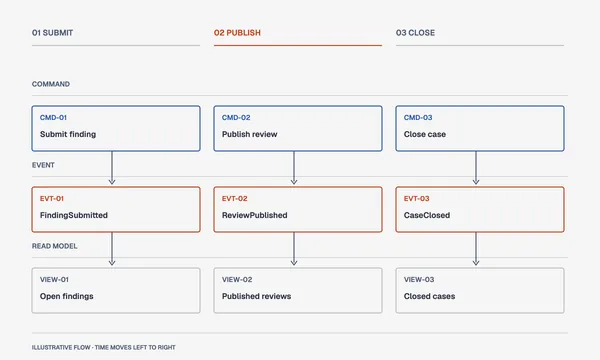
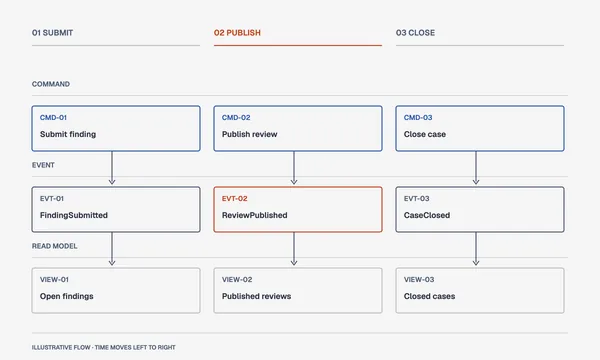
fix(events): validate roles and focus the example

diff --git a/skills/diagram-design/assets/example-event-modeling-dark.html b/skills/diagram-design/assets/example-event-modeling-dark.html
@@ -12,8 +12,8 @@
 <text x="80" y="240" fill="#739fdf" font-size="14" font-weight="700" font-family="Geist, sans-serif">CMD-01</text>
 <text x="80" y="274" fill="#f5f5f5" font-size="16" font-weight="600" font-family="Geist, sans-serif">Submit finding</text>
 </g>
-<g data-diagram-role="event" data-event-kind="event" data-event-id="EVT-01"><rect x="64" y="374" width="336" height="90" rx="4" fill="#2d3142" stroke="#f08a59" stroke-width="2"/>
-<text x="80" y="402" fill="#f08a59" font-size="14" font-weight="700" font-family="Geist, sans-serif">EVT-01</text>
+<g data-diagram-role="event" data-event-kind="event" data-event-id="EVT-01"><rect x="64" y="374" width="336" height="90" rx="4" fill="#2d3142" stroke="#bfc0c0" stroke-width="2"/>
+<text x="80" y="402" fill="#bfc0c0" font-size="14" font-weight="700" font-family="Geist, sans-serif">EVT-01</text>
 <text x="80" y="436" fill="#f5f5f5" font-size="16" font-weight="600" font-family="Geist, sans-serif">FindingSubmitted</text>
 </g>
 <g data-diagram-role="read-model" data-event-kind="read-model" data-event-id="VIEW-01"><rect x="64" y="536" width="336" height="90" rx="4" fill="#2d3142" stroke="rgba(245,245,245,0.12)" stroke-width="2"/>
@@ -48,8 +48,8 @@
 <text x="808" y="240" fill="#739fdf" font-size="14" font-weight="700" font-family="Geist, sans-serif">CMD-03</text>
 <text x="808" y="274" fill="#f5f5f5" font-size="16" font-weight="600" font-family="Geist, sans-serif">Close case</text>
 </g>
-<g data-diagram-role="event" data-event-kind="event" data-event-id="EVT-03"><rect x="792" y="374" width="336" height="90" rx="4" fill="#2d3142" stroke="#f08a59" stroke-width="2"/>
-<text x="808" y="402" fill="#f08a59" font-size="14" font-weight="700" font-family="Geist, sans-serif">EVT-03</text>
+<g data-diagram-role="event" data-event-kind="event" data-event-id="EVT-03"><rect x="792" y="374" width="336" height="90" rx="4" fill="#2d3142" stroke="#bfc0c0" stroke-width="2"/>
+<text x="808" y="402" fill="#bfc0c0" font-size="14" font-weight="700" font-family="Geist, sans-serif">EVT-03</text>
 <text x="808" y="436" fill="#f5f5f5" font-size="16" font-weight="600" font-family="Geist, sans-serif">CaseClosed</text>
 </g>
 <g data-diagram-role="read-model" data-event-kind="read-model" data-event-id="VIEW-03"><rect x="792" y="536" width="336" height="90" rx="4" fill="#2d3142" stroke="rgba(245,245,245,0.12)" stroke-width="2"/>

diff --git a/skills/diagram-design/assets/example-event-modeling-full.html b/skills/diagram-design/assets/example-event-modeling-full.html
@@ -12,8 +12,8 @@
 <text x="80" y="240" fill="#2e5aa8" font-size="14" font-weight="700" font-family="Geist, sans-serif">CMD-01</text>
 <text x="80" y="274" fill="#2d3142" font-size="16" font-weight="600" font-family="Geist, sans-serif">Submit finding</text>
 </g>
-<g data-diagram-role="event" data-event-kind="event" data-event-id="EVT-01"><rect x="64" y="374" width="336" height="90" rx="4" fill="#f5f5f5" stroke="#bf4520" stroke-width="2"/>
-<text x="80" y="402" fill="#bf4520" font-size="14" font-weight="700" font-family="Geist, sans-serif">EVT-01</text>
+<g data-diagram-role="event" data-event-kind="event" data-event-id="EVT-01"><rect x="64" y="374" width="336" height="90" rx="4" fill="#f5f5f5" stroke="#4f5d75" stroke-width="2"/>
+<text x="80" y="402" fill="#4f5d75" font-size="14" font-weight="700" font-family="Geist, sans-serif">EVT-01</text>
 <text x="80" y="436" fill="#2d3142" font-size="16" font-weight="600" font-family="Geist, sans-serif">FindingSubmitted</text>
 </g>
 <g data-diagram-role="read-model" data-event-kind="read-model" data-event-id="VIEW-01"><rect x="64" y="536" width="336" height="90" rx="4" fill="#f5f5f5" stroke="#bfc0c0" stroke-width="2"/>
@@ -48,8 +48,8 @@
 <text x="808" y="240" fill="#2e5aa8" font-size="14" font-weight="700" font-family="Geist, sans-serif">CMD-03</text>
 <text x="808" y="274" fill="#2d3142" font-size="16" font-weight="600" font-family="Geist, sans-serif">Close case</text>
 </g>
-<g data-diagram-role="event" data-event-kind="event" data-event-id="EVT-03"><rect x="792" y="374" width="336" height="90" rx="4" fill="#f5f5f5" stroke="#bf4520" stroke-width="2"/>
-<text x="808" y="402" fill="#bf4520" font-size="14" font-weight="700" font-family="Geist, sans-serif">EVT-03</text>
+<g data-diagram-role="event" data-event-kind="event" data-event-id="EVT-03"><rect x="792" y="374" width="336" height="90" rx="4" fill="#f5f5f5" stroke="#4f5d75" stroke-width="2"/>
+<text x="808" y="402" fill="#4f5d75" font-size="14" font-weight="700" font-family="Geist, sans-serif">EVT-03</text>
 <text x="808" y="436" fill="#2d3142" font-size="16" font-weight="600" font-family="Geist, sans-serif">CaseClosed</text>
 </g>
 <g data-diagram-role="read-model" data-event-kind="read-model" data-event-id="VIEW-03"><rect x="792" y="536" width="336" height="90" rx="4" fill="#f5f5f5" stroke="#bfc0c0" stroke-width="2"/>

diff --git a/skills/diagram-design/assets/example-event-modeling.html b/skills/diagram-design/assets/example-event-modeling.html
@@ -12,8 +12,8 @@
 <text x="80" y="240" fill="#2e5aa8" font-size="14" font-weight="700" font-family="Geist, sans-serif">CMD-01</text>
 <text x="80" y="274" fill="#2d3142" font-size="16" font-weight="600" font-family="Geist, sans-serif">Submit finding</text>
 </g>
-<g data-diagram-role="event" data-event-kind="event" data-event-id="EVT-01"><rect x="64" y="374" width="336" height="90" rx="4" fill="#f5f5f5" stroke="#bf4520" stroke-width="2"/>
-<text x="80" y="402" fill="#bf4520" font-size="14" font-weight="700" font-family="Geist, sans-serif">EVT-01</text>
+<g data-diagram-role="event" data-event-kind="event" data-event-id="EVT-01"><rect x="64" y="374" width="336" height="90" rx="4" fill="#f5f5f5" stroke="#4f5d75" stroke-width="2"/>
+<text x="80" y="402" fill="#4f5d75" font-size="14" font-weight="700" font-family="Geist, sans-serif">EVT-01</text>
 <text x="80" y="436" fill="#2d3142" font-size="16" font-weight="600" font-family="Geist, sans-serif">FindingSubmitted</text>
 </g>
 <g data-diagram-role="read-model" data-event-kind="read-model" data-event-id="VIEW-01"><rect x="64" y="536" width="336" height="90" rx="4" fill="#f5f5f5" stroke="#bfc0c0" stroke-width="2"/>
@@ -48,8 +48,8 @@
 <text x="808" y="240" fill="#2e5aa8" font-size="14" font-weight="700" font-family="Geist, sans-serif">CMD-03</text>
 <text x="808" y="274" fill="#2d3142" font-size="16" font-weight="600" font-family="Geist, sans-serif">Close case</text>
 </g>
-<g data-diagram-role="event" data-event-kind="event" data-event-id="EVT-03"><rect x="792" y="374" width="336" height="90" rx="4" fill="#f5f5f5" stroke="#bf4520" stroke-width="2"/>
-<text x="808" y="402" fill="#bf4520" font-size="14" font-weight="700" font-family="Geist, sans-serif">EVT-03</text>
+<g data-diagram-role="event" data-event-kind="event" data-event-id="EVT-03"><rect x="792" y="374" width="336" height="90" rx="4" fill="#f5f5f5" stroke="#4f5d75" stroke-width="2"/>
+<text x="808" y="402" fill="#4f5d75" font-size="14" font-weight="700" font-family="Geist, sans-serif">EVT-03</text>
 <text x="808" y="436" fill="#2d3142" font-size="16" font-weight="600" font-family="Geist, sans-serif">CaseClosed</text>
 </g>
 <g data-diagram-role="read-model" data-event-kind="read-model" data-event-id="VIEW-03"><rect x="792" y="536" width="336" height="90" rx="4" fill="#f5f5f5" stroke="#bfc0c0" stroke-width="2"/>

diff --git a/scripts/verify-event-modeling.py b/scripts/verify-event-modeling.py
@@ -17,7 +17,44 @@ LINKS = {"emits": ("command", "event"), "projects": ("event", "read-model")}
 
 
 def visible(element: ET.Element) -> str:
-    return " ".join(" ".join(element.itertext()).split())
+    """Read SVG text while excluding metadata and hidden descendants."""
+    chunks: list[str] = []
+
+    def walk(node: ET.Element, in_text: bool = False) -> None:
+        tag = node.tag.rsplit("}", 1)[-1]
+        style = {
+            key.strip().casefold(): value.strip().casefold()
+            for key, separator, value in (
+                part.partition(":") for part in node.attrib.get("style", "").split(";")
+            )
+            if key and separator
+        }
+        if (
+            tag in {"defs", "title", "desc"}
+            or node.attrib.get("aria-hidden") == "true"
+            or "hidden" in node.attrib
+            or node.attrib.get("display") == "none"
+            or node.attrib.get("visibility") == "hidden"
+            or node.attrib.get("opacity") in {"0", "0.0"}
+            or node.attrib.get("fill") in {"none", "transparent"}
+            or node.attrib.get("fill-opacity") in {"0", "0.0"}
+            or style.get("display") == "none"
+            or style.get("visibility") == "hidden"
+            or style.get("opacity") in {"0", "0.0"}
+            or style.get("fill") in {"none", "transparent"}
+            or style.get("fill-opacity") in {"0", "0.0"}
+        ):
+            return
+        in_text = in_text or tag == "text"
+        if in_text and node.text:
+            chunks.append(node.text)
+        for child in node:
+            walk(child, in_text)
+            if in_text and child.tail:
+                chunks.append(child.tail)
+
+    walk(element)
+    return " ".join(" ".join(chunks).split())
 
 
 def check(path: Path) -> list[str]:
@@ -45,6 +82,8 @@ def check(path: Path) -> list[str]:
         stage_ids.add(stage_id)
         if stage.attrib.get("data-stage-order") != str(index):
             errors.append(f"{stage_id}: stage order must be {index}")
+        if stage.attrib.get("data-diagram-role") != "timeframe":
+            errors.append(f"{stage_id}: stage role must be timeframe")
         elements = {kind: [] for kind in KINDS}
         links = {rel: [] for rel in LINKS}
         for element in stage.iter():
@@ -54,6 +93,8 @@ def check(path: Path) -> list[str]:
                     errors.append(f"{stage_id}: unknown kind {kind!r}")
                     continue
                 elements[kind].append(element)
+                if element.attrib.get("data-diagram-role") != kind:
+                    errors.append(f"{stage_id}: {kind} node role must be {kind}")
                 element_id = element.attrib.get("data-event-id", "").strip()
                 if not element_id.startswith(KINDS[kind]) or element_id in global_ids:
                     errors.append(f"{stage_id}: invalid or duplicate {kind} ID {element_id!r}")
@@ -74,6 +115,8 @@ def check(path: Path) -> list[str]:
             if len(found) != 1:
                 errors.append(f"{stage_id}: expected one {rel} link")
                 continue
+            if found[0].attrib.get("data-diagram-role") != "event-link":
+                errors.append(f"{stage_id}: {rel} link role must be event-link")
             if len(elements[from_kind]) != 1 or len(elements[to_kind]) != 1:
                 continue
             from_id = elements[from_kind][0].attrib.get("data-event-id", "")

diff --git a/scripts/test-verify-event-modeling.py b/scripts/test-verify-event-modeling.py
@@ -22,10 +22,17 @@ def main() -> None:
     cases = (
         ('data-stage-order="2"', 'data-stage-order="1"', "stage order"),
         ('data-event-stage="STAGE-02"', 'data-event-stage="STAGE-01"', "duplicate stage ID"),
+        ('data-diagram-role="timeframe"', 'data-diagram-role="unknown"', "stage role must be timeframe"),
+        ('data-diagram-role="command"', 'data-diagram-role="unknown"', "command node role must be command"),
+        ('data-diagram-role="event-link"', 'data-diagram-role="unknown"', "link role must be event-link"),
         ('data-from="CMD-01"', 'data-from="CMD-99"', "emits endpoints"),
         ('data-to="VIEW-01"', 'data-to="VIEW-99"', "projects endpoints"),
         ('data-event-rel="emits"', 'data-event-rel="unknown"', "unknown link"),
         ('>EVT-01</text>', '>EVT-99</text>', "is not printed"),
+        ('>EVT-01</text>', '>Unprinted</text><desc>EVT-01</desc>', "is not printed"),
+        ('>EVT-01</text>', '>Unprinted</text><defs><text>EVT-01</text></defs>', "is not printed"),
+        ('data-diagram-role="event"', 'display="none" data-diagram-role="event"', "is not printed"),
+        ('>READ MODEL</text>', '>Unlabeled</text><desc>READ MODEL</desc>', "missing visible read model label"),
         ('data-event-id="CMD-01"', 'data-event-id=""', "invalid or duplicate command ID"),
     )
     with tempfile.TemporaryDirectory() as directory:
